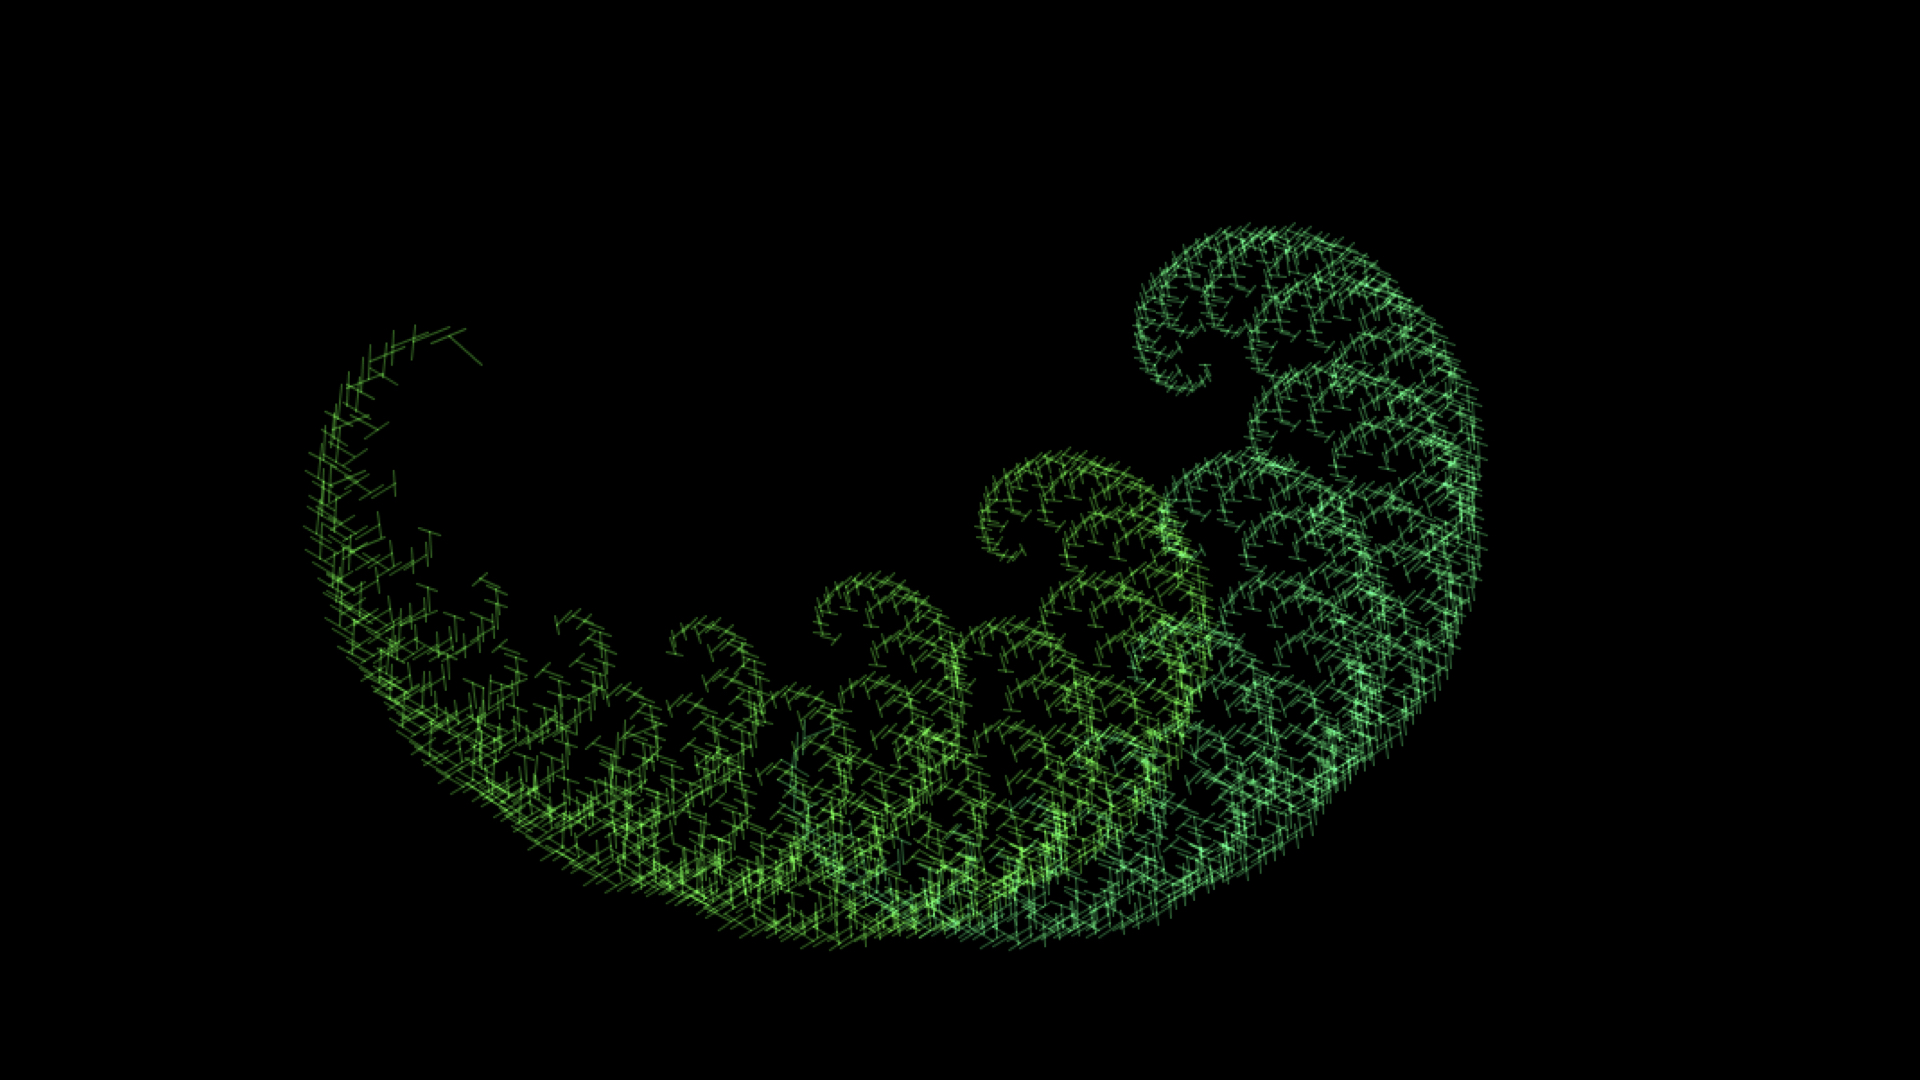
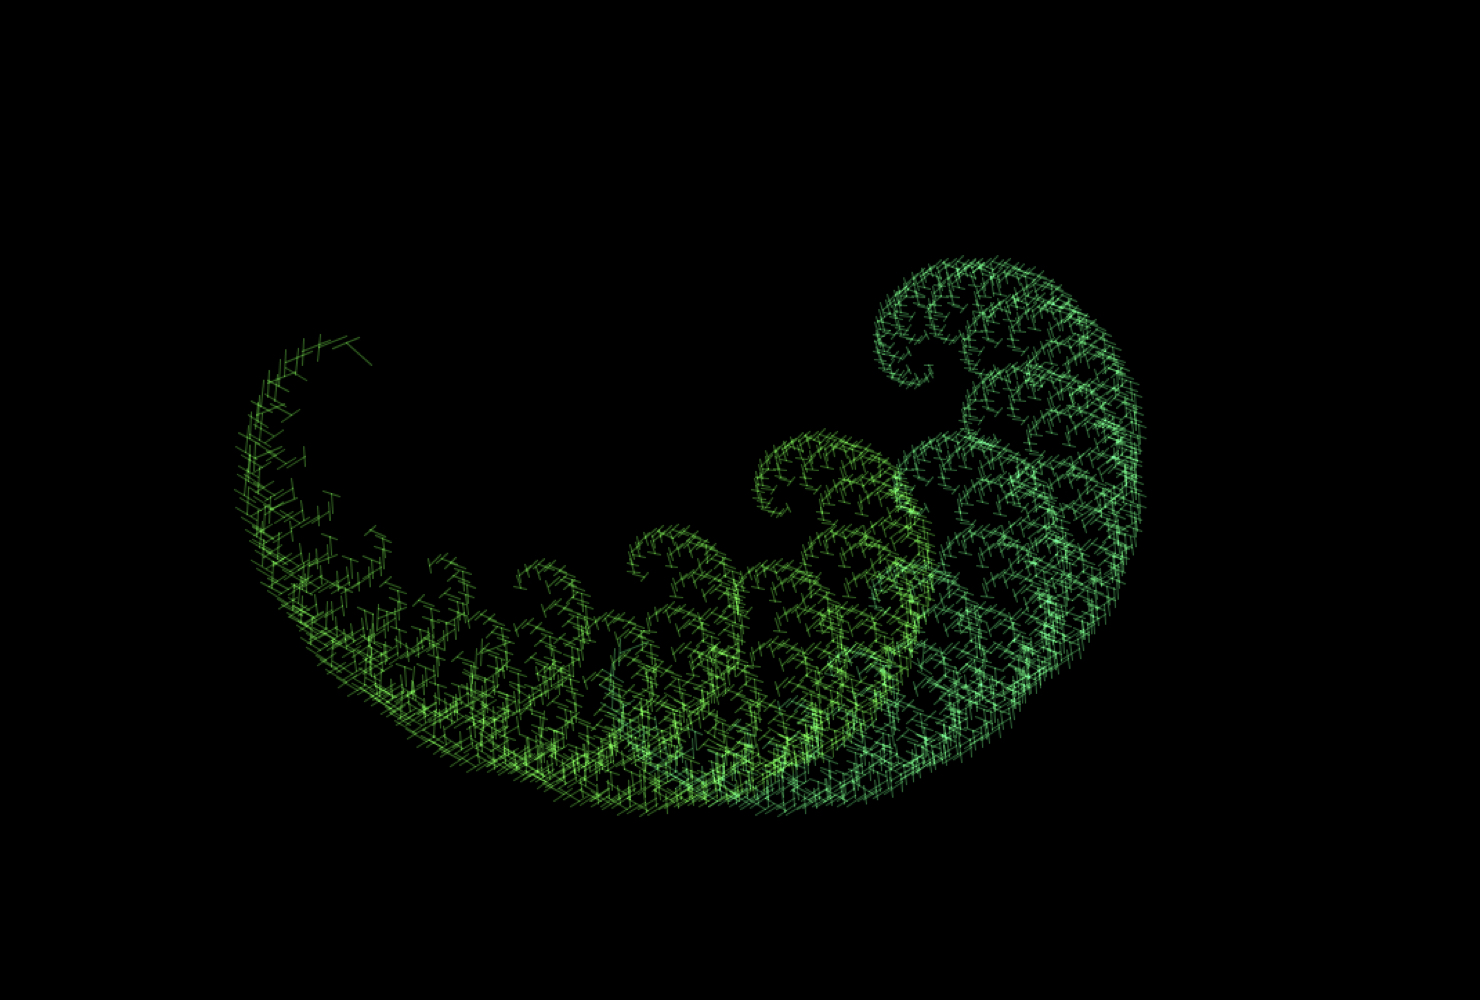
replace fractal image

Changed region(s): [[0.1554, 0.186, 0.777, 0.899]]

diff --git a/index.html b/index.html
@@ -110,21 +110,31 @@
 					<div class="row">
 						<div class="col-md-12">
 							<div class="fh5co-gallery custom-fh5co-tab-transition">
-								<a class="gallery-item" data-tab="6" href="#">
+								<a class="gallery-item" data-tab="drawing" href="#">
 									<img src="images/works/drawing/whale.jpg" alt="drawing">
 									<span class="overlay">
 										<h2>Drawing</h2>
 										<span>When I feel like drawing.</span>
 									</span>
 								</a>
-								<a class="gallery-item" data-tab="7" href="#">
+								
+								<a class="gallery-item" data-tab="kinect" href="#">
 									<img src="images/works/kinect_processing/particles.png" alt="particles">
 									<span class="overlay">
 										<h2>Interative art of body movement</h2>
 										<span>by Kinect and Processing</span>
 									</span>
 								</a>
-								<a class="gallery-item" data-tab="8" href="#">
+
+								<a class="gallery-item" data-tab="thesis" href="#">
+									<img src="images/works/thesis/graph.png" alt="thesis">
+									<span class="overlay">
+										<h2>Graduation thesis</h2>
+										<span>平塚沖を事例とした統計的アプローチによる局所的な海上風の短期予測</span>
+									</span>
+								</a>
+
+								<a class="gallery-item" data-tab="fractal" href="#">
 									<img src="images/works/fractal/fractal_3.jpeg" alt="fractal">
 									<span class="overlay">
 										<h2>Fractal</h2>
@@ -138,7 +148,7 @@
 			</div>
 
 			<!-- works detail drawing-->
-			<div class="fh5co-tab-content" data-content="6">
+			<div class="fh5co-tab-content" data-content="drawing">
 				<div class="fh5co-content-inner">
 					<div class="row">
 						<div class="col-md-12">
@@ -191,7 +201,7 @@
 			</div>
 
 			<!-- works detail kinect-->
-			<div class="fh5co-tab-content" data-content="7">
+			<div class="fh5co-tab-content" data-content="kinect">
 				<div class="fh5co-content-inner">
 					<div class="row">
 						<div class="col-md-12">
@@ -231,17 +241,58 @@
 				</div>
 			</div>
 
+			<!-- works detail thesis-->
+			<div class="fh5co-tab-content" data-content="thesis">
+				<div class="fh5co-content-inner">
+					<div class="row">
+						<div class="col-md-12">
+							<h2>Graduation thesis</h2>
+							
+							<div class="fh5co-gallery">
+								<div class="iframe-wrap">
+									<iframe src="https://www.youtube.com/embed/JT8pedftKfs" frameborder="0" allow="autoplay"></iframe>
+								</div>
+
+								<p>Interative art of body movement by Kinect and Processing exhibited in The 90th May Festival of the University of Tokyo</p>
+
+								<div class="gallery-item">
+									<img src="images/works/kinect_processing/reconstruction.png" alt="reconstruction">
+								</div>
+								<h2>Particles</h2>
+								<p>Your body is displayed as particles. They follow about your movment, sometimes collapse and reconstruct your body.</p>						
+
+								<div class="gallery-item">
+									<img src="images/works/kinect_processing/line.png" alt="line">
+								</div>
+								<h2>Lines</h2>
+								<p>Your body is displayed as lines. They represent vectors of your movement not your pyisical body.</p>
+								
+								<div class="gallery-item">
+									<img src="images/works/kinect_processing/charge.png" alt="charge">
+								</div>
+								<div class="gallery-item">
+									<img src="images/works/kinect_processing/beam.png" alt="beam">
+								</div>
+								<h2>Trails</h2>
+								<p>Trails are drawn along with your hands movement. You can charge power by stopping motion, then you can spout it as beams.</p>
+								
+							</div>
+						</div>
+					</div>
+				</div>
+			</div>
+
 			<!-- works detail fractal-->
-			<div class="fh5co-tab-content" data-content="8">
+			<div class="fh5co-tab-content" data-content="fractal">
 				<div class="fh5co-content-inner">
 					<div class="row">
 						<div class="col-md-12">
 							<h2>Fractal</h2>
 							<p>by Processing</p>
 							<div class="fh5co-gallery">
-								<div class="iframe-wrap">
+								<!-- <div class="iframe-wrap">
 									<iframe src="https://www.youtube.com/embed/4saaxVaMrd8" frameborder="0" allow="autoplay"></iframe>
-								</div>
+								</div> -->
 								<div class="gallery-item">
 									<img src="images/works/fractal/fractal_1.jpeg" alt="fractal_1">
 								</div>
